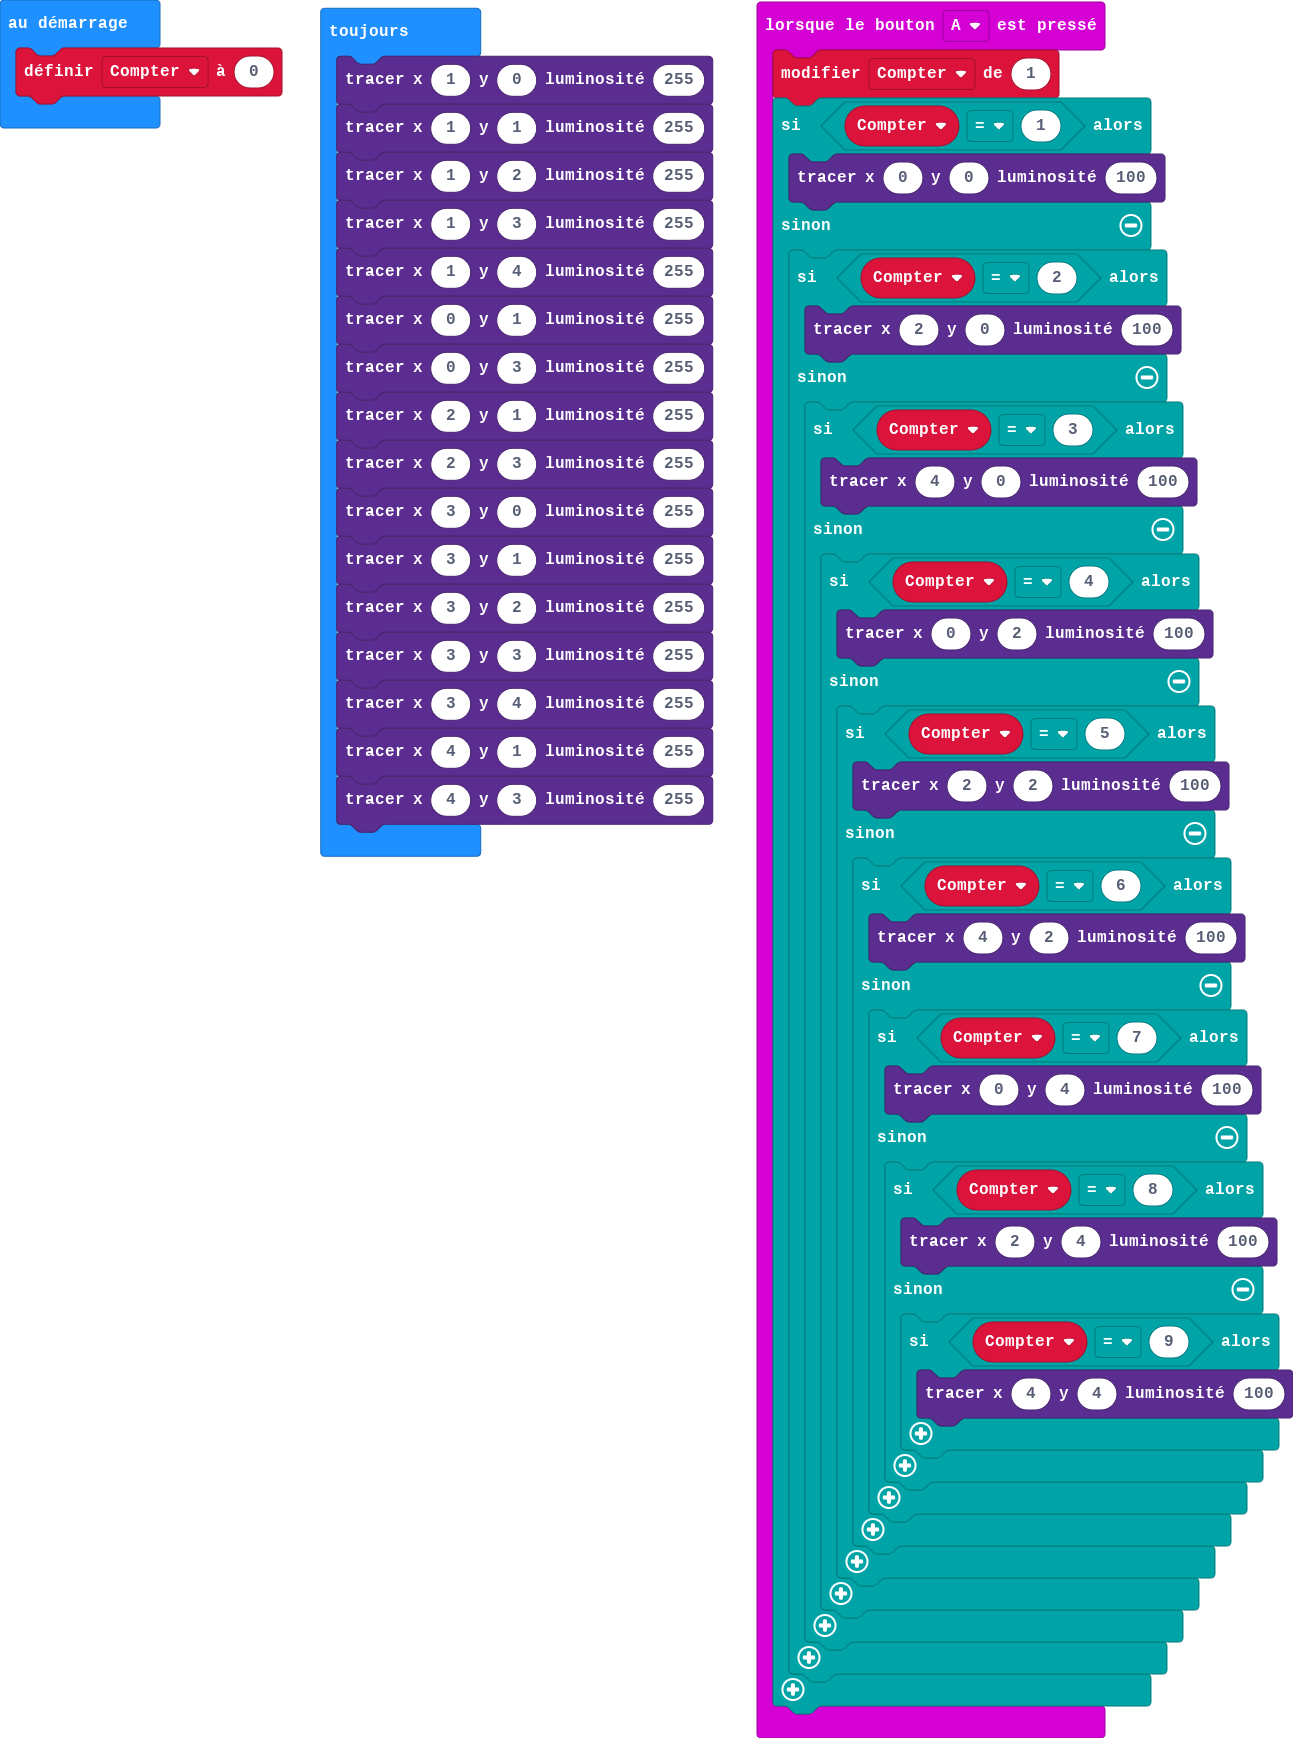
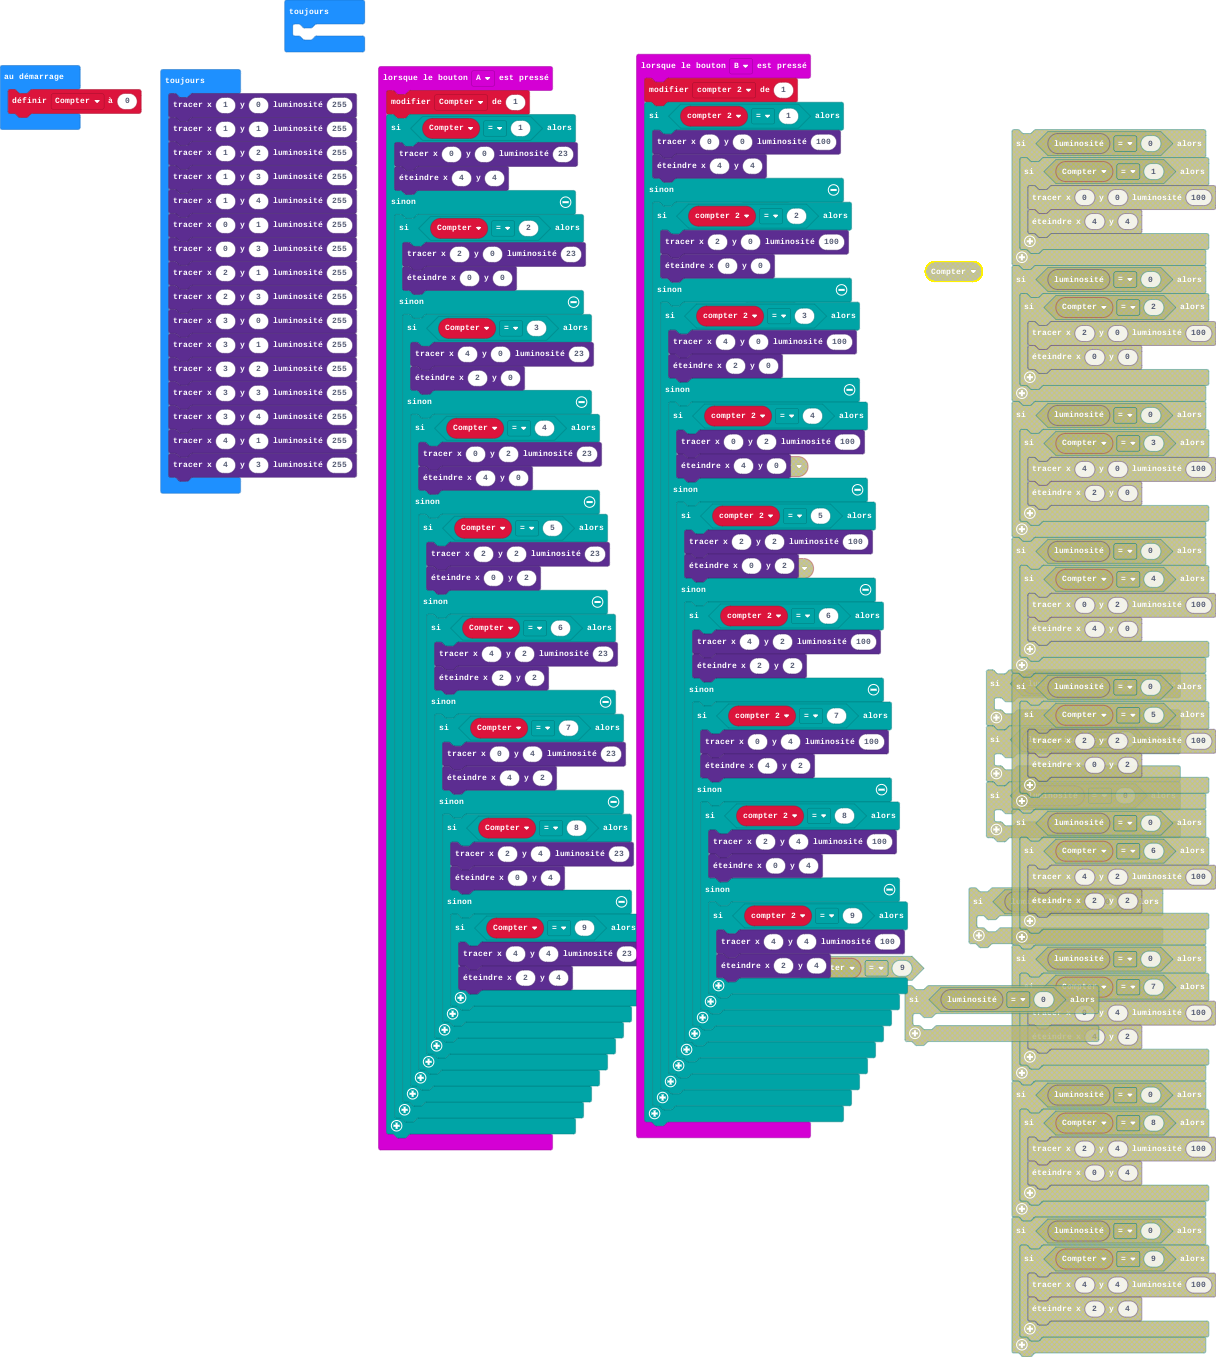
Mise à jour main.blocks, main.ts

diff --git a/main.ts b/main.ts
@@ -1,31 +1,40 @@
 input.onButtonPressed(Button.A, function () {
     Compter += 1
     if (Compter == 1) {
-        led.plotBrightness(0, 0, 100)
+        led.plotBrightness(0, 0, 23)
+        led.unplot(4, 4)
     } else {
         if (Compter == 2) {
-            led.plotBrightness(2, 0, 100)
+            led.plotBrightness(2, 0, 23)
+            led.unplot(0, 0)
         } else {
             if (Compter == 3) {
-                led.plotBrightness(4, 0, 100)
+                led.plotBrightness(4, 0, 23)
+                led.unplot(2, 0)
             } else {
                 if (Compter == 4) {
-                    led.plotBrightness(0, 2, 100)
+                    led.plotBrightness(0, 2, 23)
+                    led.unplot(4, 0)
                 } else {
                     if (Compter == 5) {
-                        led.plotBrightness(2, 2, 100)
+                        led.plotBrightness(2, 2, 23)
+                        led.unplot(0, 2)
                     } else {
                         if (Compter == 6) {
-                            led.plotBrightness(4, 2, 100)
+                            led.plotBrightness(4, 2, 23)
+                            led.unplot(2, 2)
                         } else {
                             if (Compter == 7) {
-                                led.plotBrightness(0, 4, 100)
+                                led.plotBrightness(0, 4, 23)
+                                led.unplot(4, 2)
                             } else {
                                 if (Compter == 8) {
-                                    led.plotBrightness(2, 4, 100)
+                                    led.plotBrightness(2, 4, 23)
+                                    led.unplot(0, 4)
                                 } else {
                                     if (Compter == 9) {
-                                        led.plotBrightness(4, 4, 100)
+                                        led.plotBrightness(4, 4, 23)
+                                        led.unplot(2, 4)
                                     }
                                 }
                             }
@@ -36,8 +45,59 @@ input.onButtonPressed(Button.A, function () {
         }
     }
 })
+input.onButtonPressed(Button.B, function () {
+    compter_2 += 1
+    if (compter_2 == 1) {
+        led.plotBrightness(0, 0, 100)
+        led.unplot(4, 4)
+    } else {
+        if (compter_2 == 2) {
+            led.plotBrightness(2, 0, 100)
+            led.unplot(0, 0)
+        } else {
+            if (compter_2 == 3) {
+                led.plotBrightness(4, 0, 100)
+                led.unplot(2, 0)
+            } else {
+                if (compter_2 == 4) {
+                    led.plotBrightness(0, 2, 100)
+                    led.unplot(4, 0)
+                } else {
+                    if (compter_2 == 5) {
+                        led.plotBrightness(2, 2, 100)
+                        led.unplot(0, 2)
+                    } else {
+                        if (compter_2 == 6) {
+                            led.plotBrightness(4, 2, 100)
+                            led.unplot(2, 2)
+                        } else {
+                            if (compter_2 == 7) {
+                                led.plotBrightness(0, 4, 100)
+                                led.unplot(4, 2)
+                            } else {
+                                if (compter_2 == 8) {
+                                    led.plotBrightness(2, 4, 100)
+                                    led.unplot(0, 4)
+                                } else {
+                                    if (compter_2 == 9) {
+                                        led.plotBrightness(4, 4, 100)
+                                        led.unplot(2, 4)
+                                    }
+                                }
+                            }
+                        }
+                    }
+                }
+            }
+        }
+    }
+})
+let compter_2 = 0
 let Compter = 0
 Compter = 0
+basic.forever(function () {
+	
+})
 basic.forever(function () {
     led.plotBrightness(1, 0, 255)
     led.plotBrightness(1, 1, 255)
